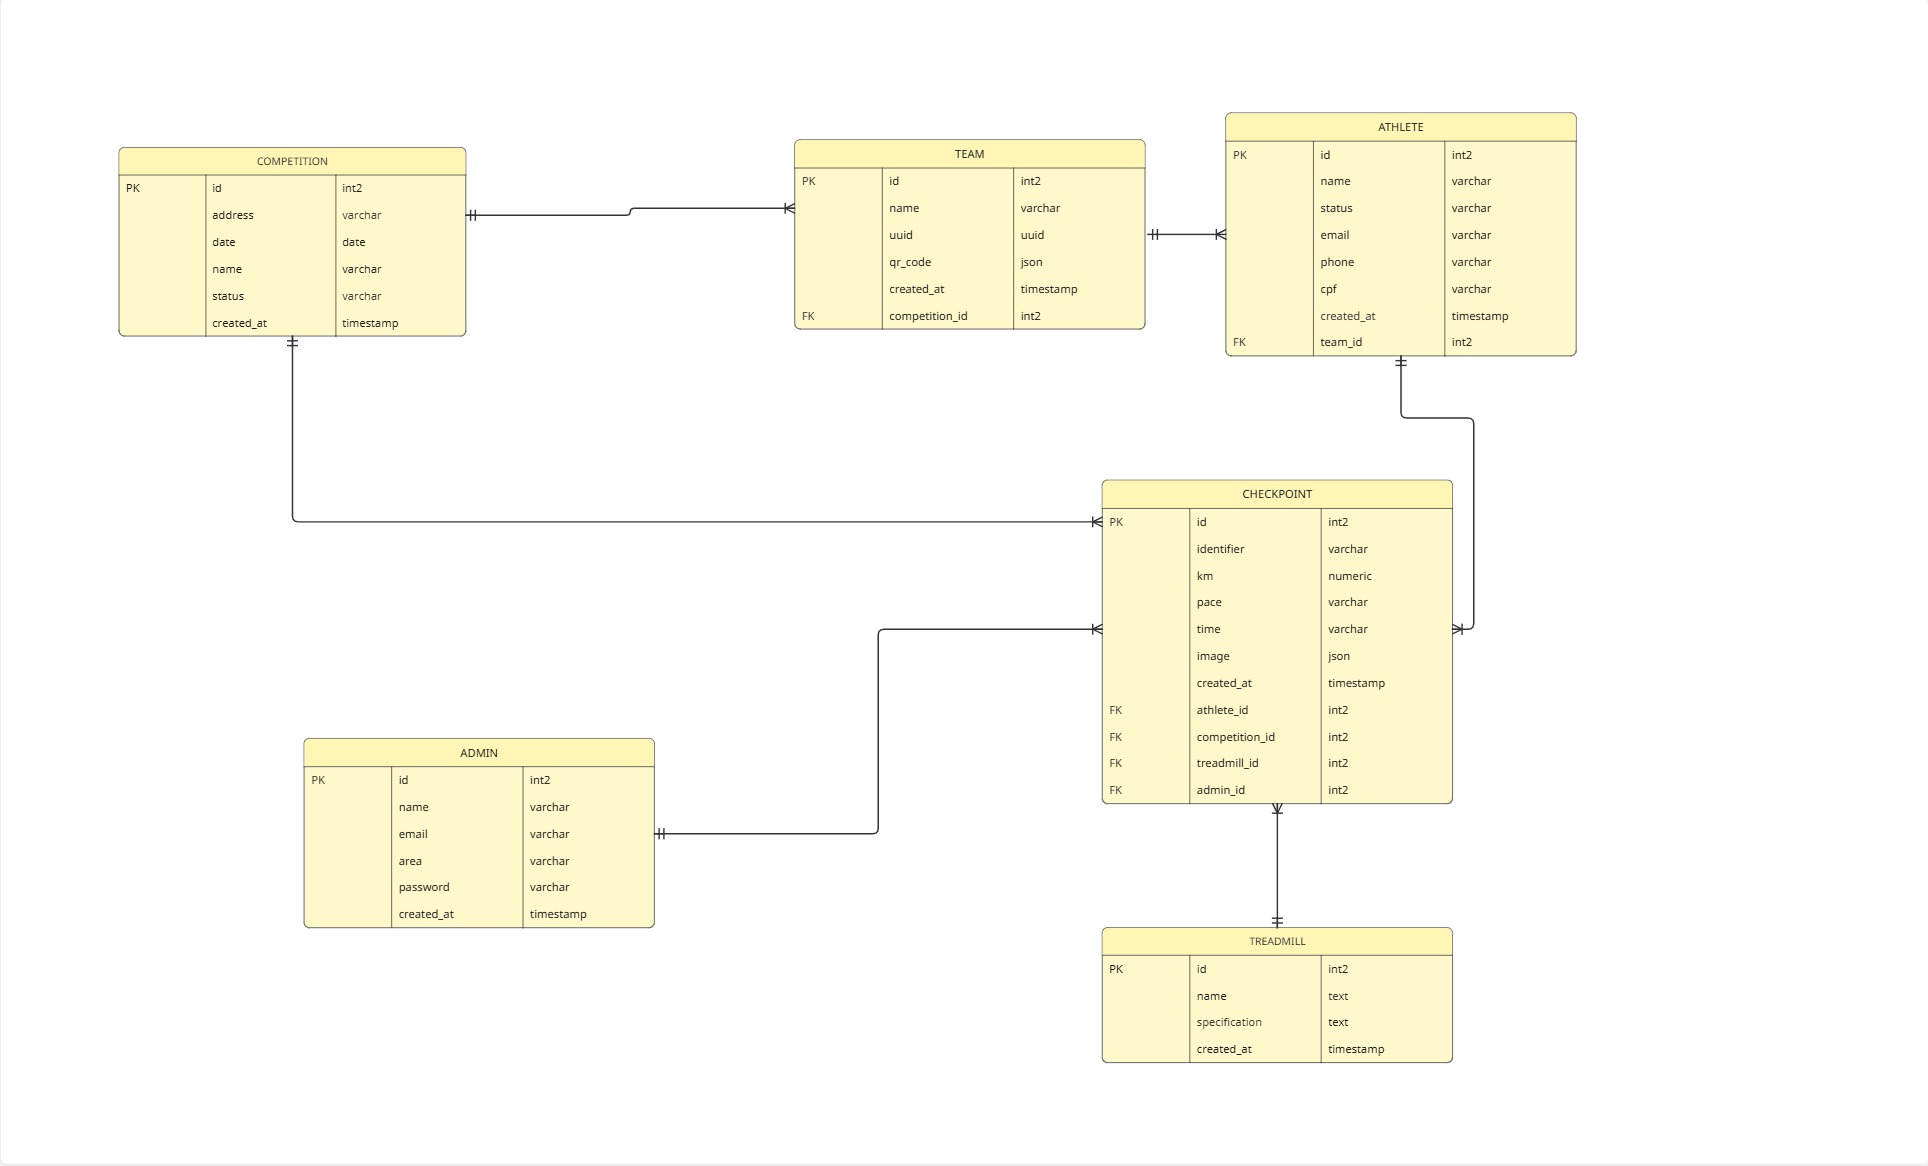
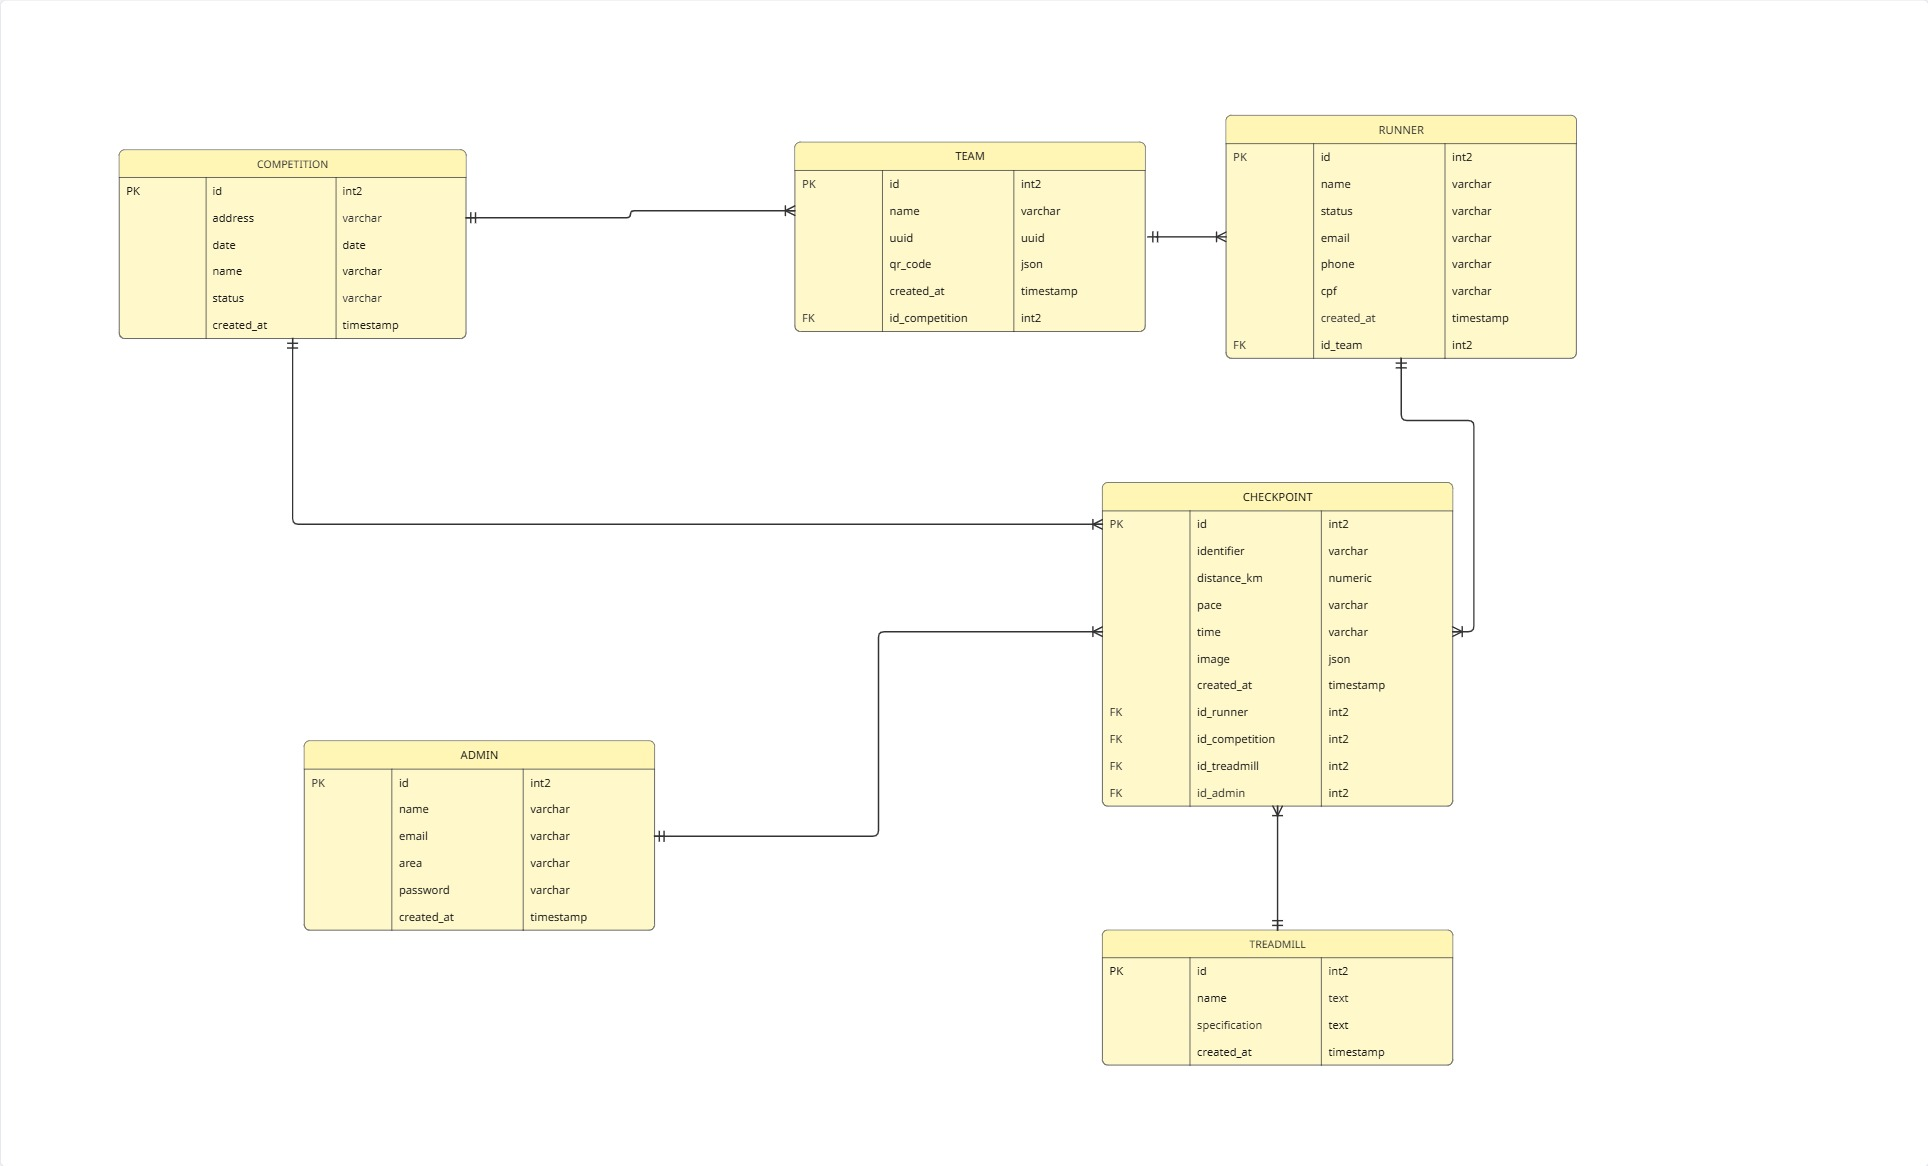
docs(#356): Padroniza nomes de entidades e atributos
Esse commit tem como objetivo atualizar os nomes em inglês das entidades e atributos após a padronização decidida pelo grupo

Refs #356

diff --git a/documentos/wad.md b/documentos/wad.md
@@ -2227,8 +2227,8 @@ Por meio dessa representação, é possível identificar de forma clara relaçõ
 | # | Entidade A | Entidade B | A → B | B → A |
 |---|---|---|---|---|
 | 1 | COMPETITION | TEAM | 1 competição tem muitas equipes (1:N) | Muitas equipes pertencem a 1 única competição (N:1) |
-| 2 | TEAM | ATHLETE | 1 equipe tem muitos corredores (1:N) | Muitos corredores pertencem a 1 única equipe (N:1) |
-| 3 | ATHLETE | CHECKPOINT | 1 corredor possui muitos checkpoints (1:N) | Muitos checkpoints pertencem a 1 único corredor (N:1) |
+| 2 | TEAM | RUNNER | 1 equipe tem muitos corredores (1:N) | Muitos corredores pertencem a 1 única equipe (N:1) |
+| 3 | RUNNER | CHECKPOINT | 1 corredor possui muitos checkpoints (1:N) | Muitos checkpoints pertencem a 1 único corredor (N:1) |
 | 4 | ADMIN | CHECKPOINT | 1 administrador supervisiona muitos checkpoints (1:N) | Muitos checkpoints são supervisionados por 1 único administrador (N:1) |
 | 5 | TREADMILL | CHECKPOINT | 1 esteira é usada em muitos checkpoints (1:N) | Muitos checkpoints usam 1 única esteira (N:1) |
 | 6 | COMPETITION | CHECKPOINT | 1 competição possui muitos checkpoints (1:N) | Muitos checkpoints pertencem a 1 única competição (N:1) |
@@ -2239,16 +2239,16 @@ Por meio dessa representação, é possível identificar de forma clara relaçõ
 | ----------------------------------------------------------- | ------------------------------------- |
 | Classe `Competition`                                         | Tabela `COMPETITION`                   |
 | Classe `Team`                                             | Tabela `TEAM`                       |
-| Classe `Athlete`                                  | Tabela `ATHLETE`                     |
+| Classe `Runner`                                  | Tabela `RUNNER`                     |
 | Classe `Admin`                               | Tabela `ADMIN`                |
 | Classe `Checkpoint`                                         | Tabela `CHECKPOINT`                   |
 | Classe `Treadmill`                                            | Tabela `TREADMILL`                      |
-| Associação `Competition` possui `Team`                     | FK `competition_id` em `TEAM`        |
-| Associação `Team` possui `Athlete`                       | FK `team_id` em `ATHLETE`          |
-| Associação `Athlete` registra `Checkpoint`                 | FK `athlete_id` em `CHECKPOINT`      |
-| Associação `Competition` possui `Checkpoint`                 | FK `competition_id` em `CHECKPOINT`    |
-| Associação `Treadmill` é usada em `Checkpoint`                | FK `treadmill_id` em `CHECKPOINT`       |
-| Associação `Admin` valida/supervisiona `Checkpoint` | FK `admin_id` em `CHECKPOINT` |
+| Associação `Competition` possui `Team`                     | FK `id_competition` em `TEAM`        |
+| Associação `Team` possui `Runner`                       | FK `id_team` em `RUNNER`          |
+| Associação `Runner` registra `Checkpoint`                 | FK `id_runner` em `CHECKPOINT`      |
+| Associação `Competition` possui `Checkpoint`                 | FK `id_competition` em `CHECKPOINT`    |
+| Associação `Treadmill` é usada em `Checkpoint`                | FK `id_treadmill` em `CHECKPOINT`       |
+| Associação `Admin` valida/supervisiona `Checkpoint` | FK `id_admin` em `CHECKPOINT` |
 
 
 ### 3.6.3. Modelo Relacional e Modelo Físico (sprints 2 e 4)
